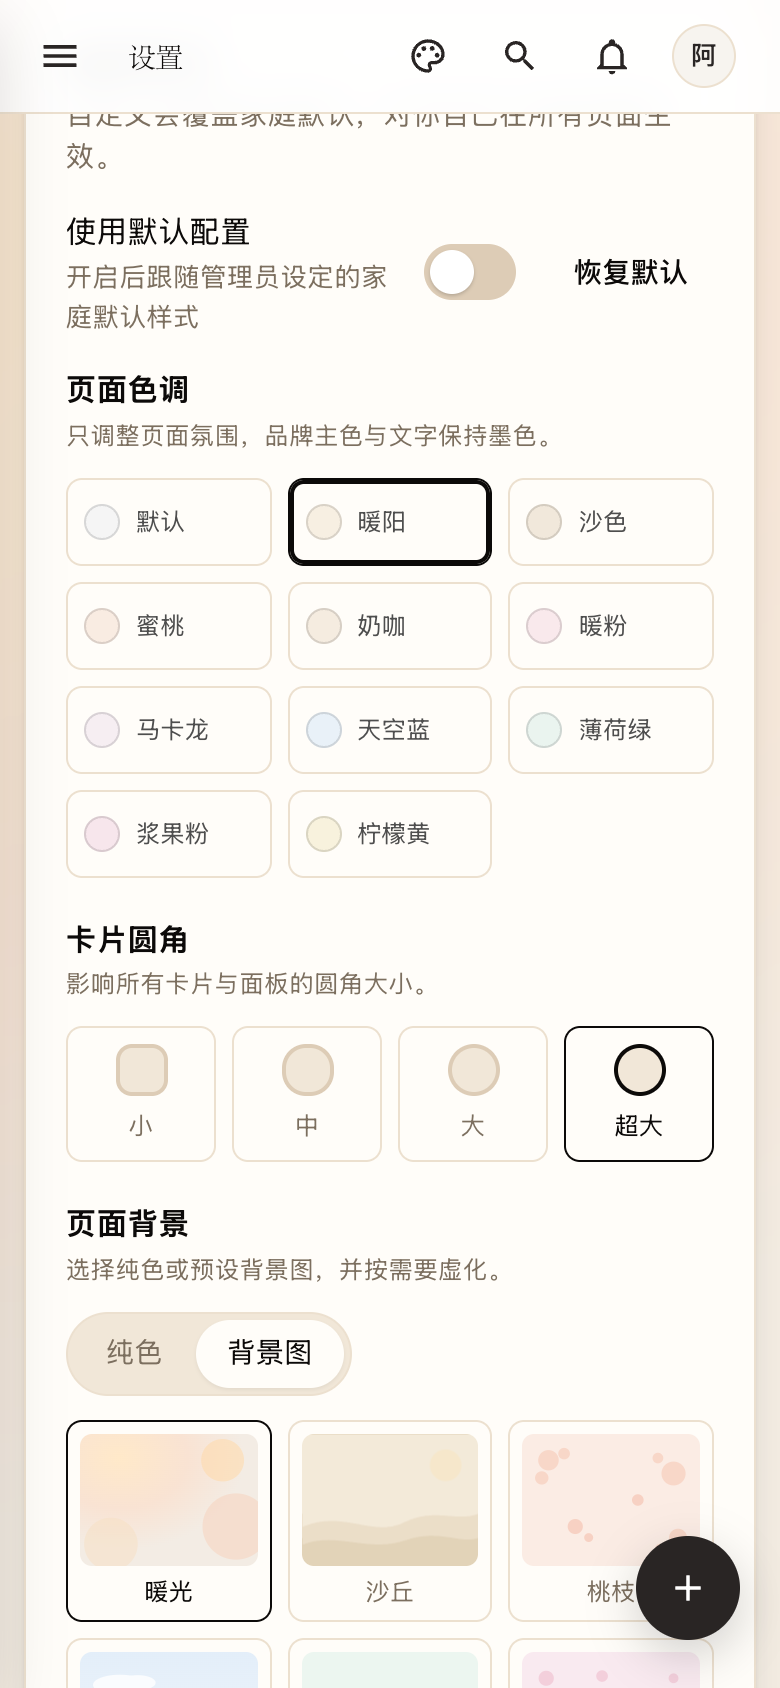
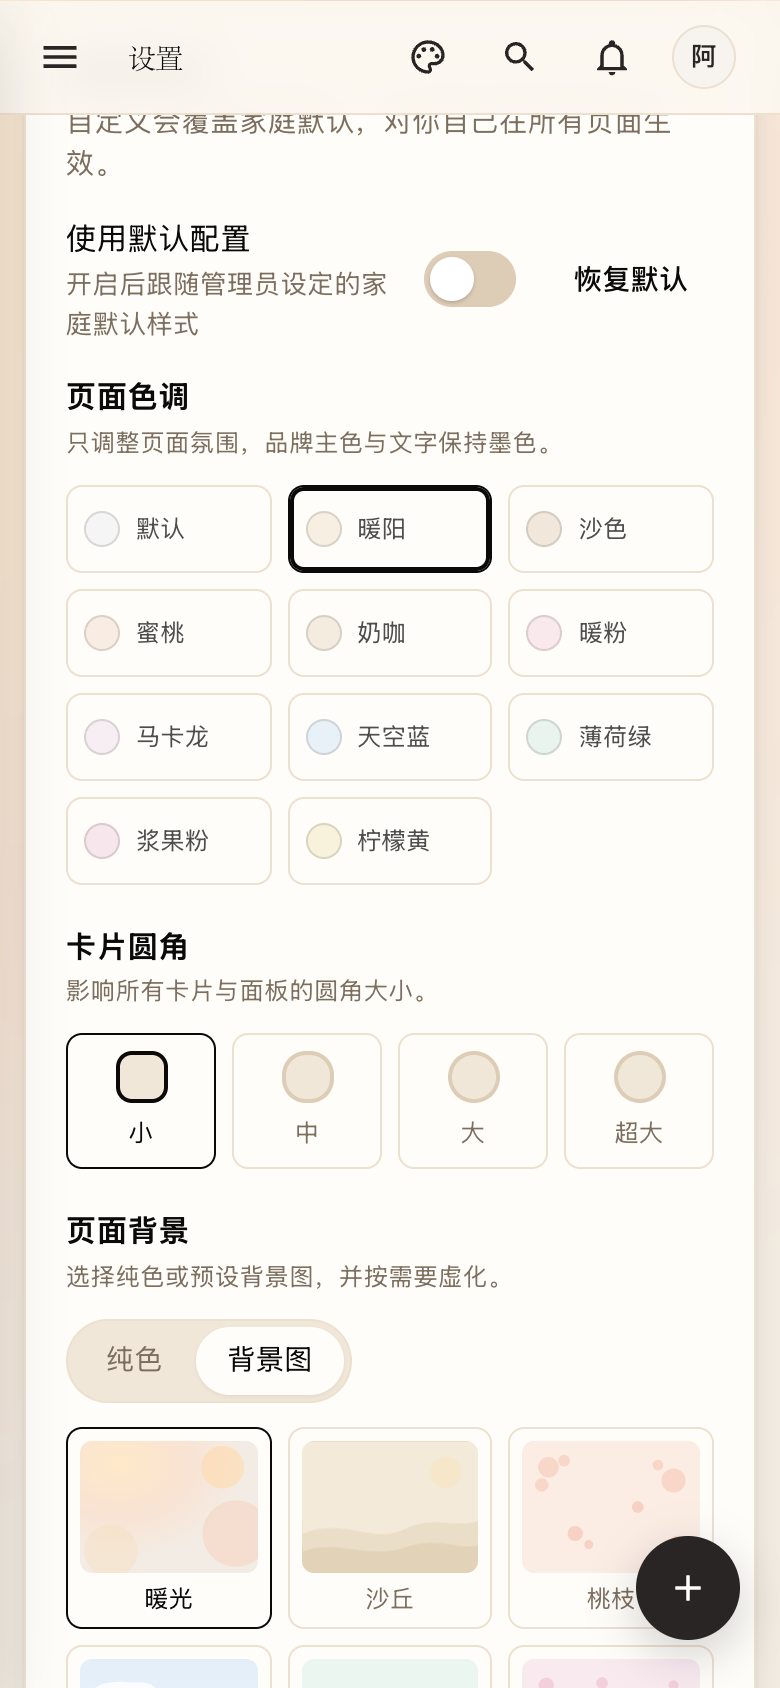
fix(web): 顶栏与侧栏底色随所选色调变化

diff --git a/web/src/components/AppShell.vue b/web/src/components/AppShell.vue
@@ -432,6 +432,7 @@ async function logout(): Promise<void> {
   height: 100vh;
   padding: var(--at-space-3);
   background: var(--at-bg-surface);
+  background: var(--at-bg-chrome);
   border-right: 1px solid var(--at-color-hairline);
   transition: width var(--at-duration-base) var(--at-ease), transform var(--at-duration-base) var(--at-ease);
   z-index: var(--at-z-nav);
@@ -640,6 +641,7 @@ async function logout(): Promise<void> {
   z-index: var(--at-z-nav);
   border-bottom: 1px solid var(--at-color-hairline);
   background: rgba(255, 255, 255, 0.92);
+  background: color-mix(in srgb, var(--at-bg-chrome) 90%, transparent);
   backdrop-filter: saturate(1.1) blur(10px);
 }
 

diff --git a/web/src/styles/tokens.css b/web/src/styles/tokens.css
@@ -13,6 +13,8 @@
   --at-bg-page: #f5f5f5;
   --at-bg-canvas-soft: #fafafa;
   --at-bg-surface: #ffffff;
+  /* 顶栏 / 侧栏底色：随色调在页面色与卡片色之间过渡 */
+  --at-bg-chrome: color-mix(in srgb, var(--at-bg-page) 45%, var(--at-bg-surface));
   --at-bg-surface-strong: #f0efed;
   --at-bg-dark: #0c0a09;
   --at-bg-dark-elevated: #1c1917;
